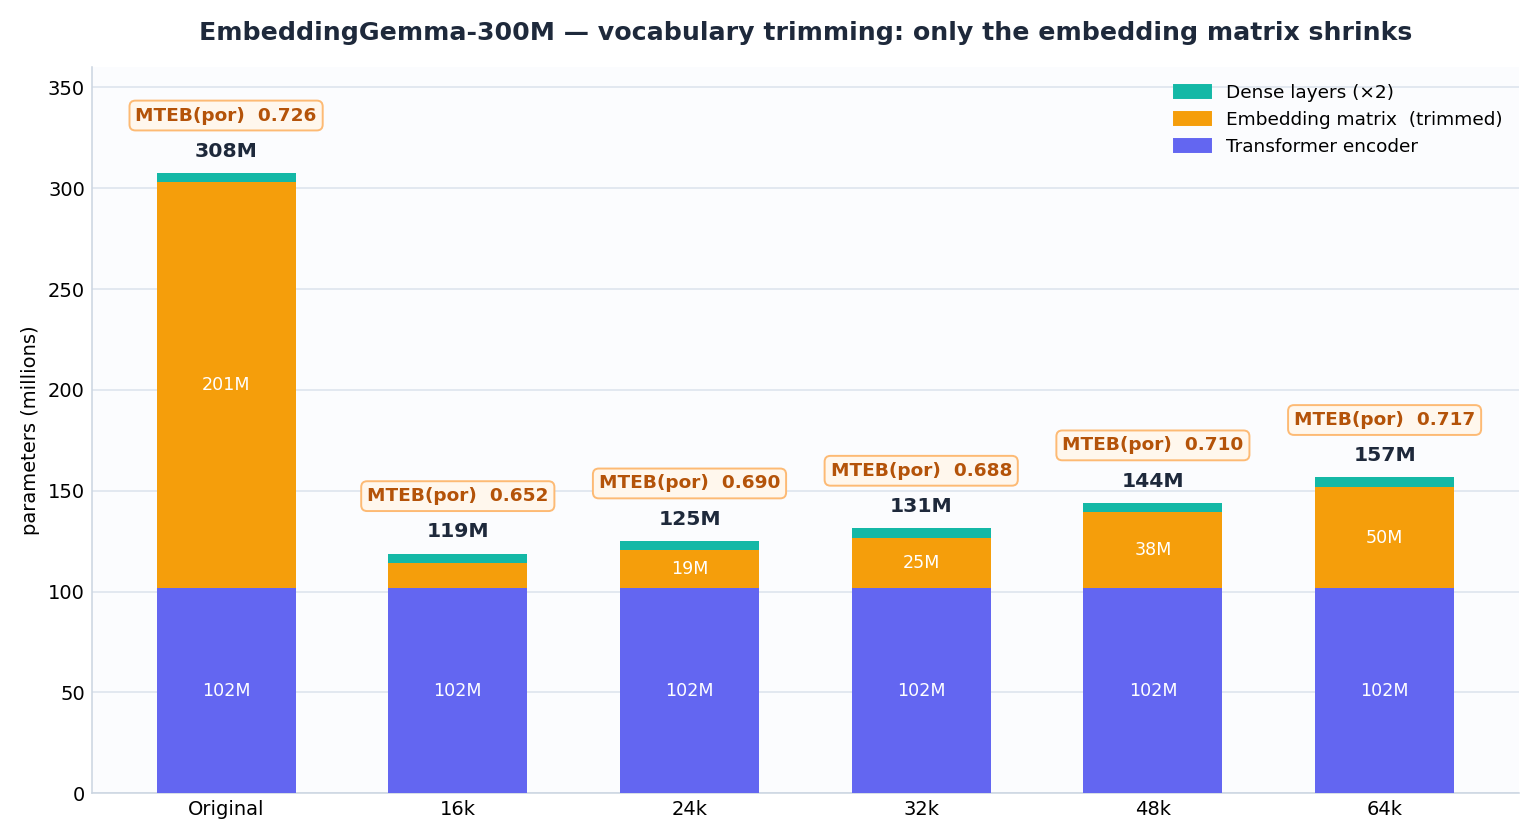
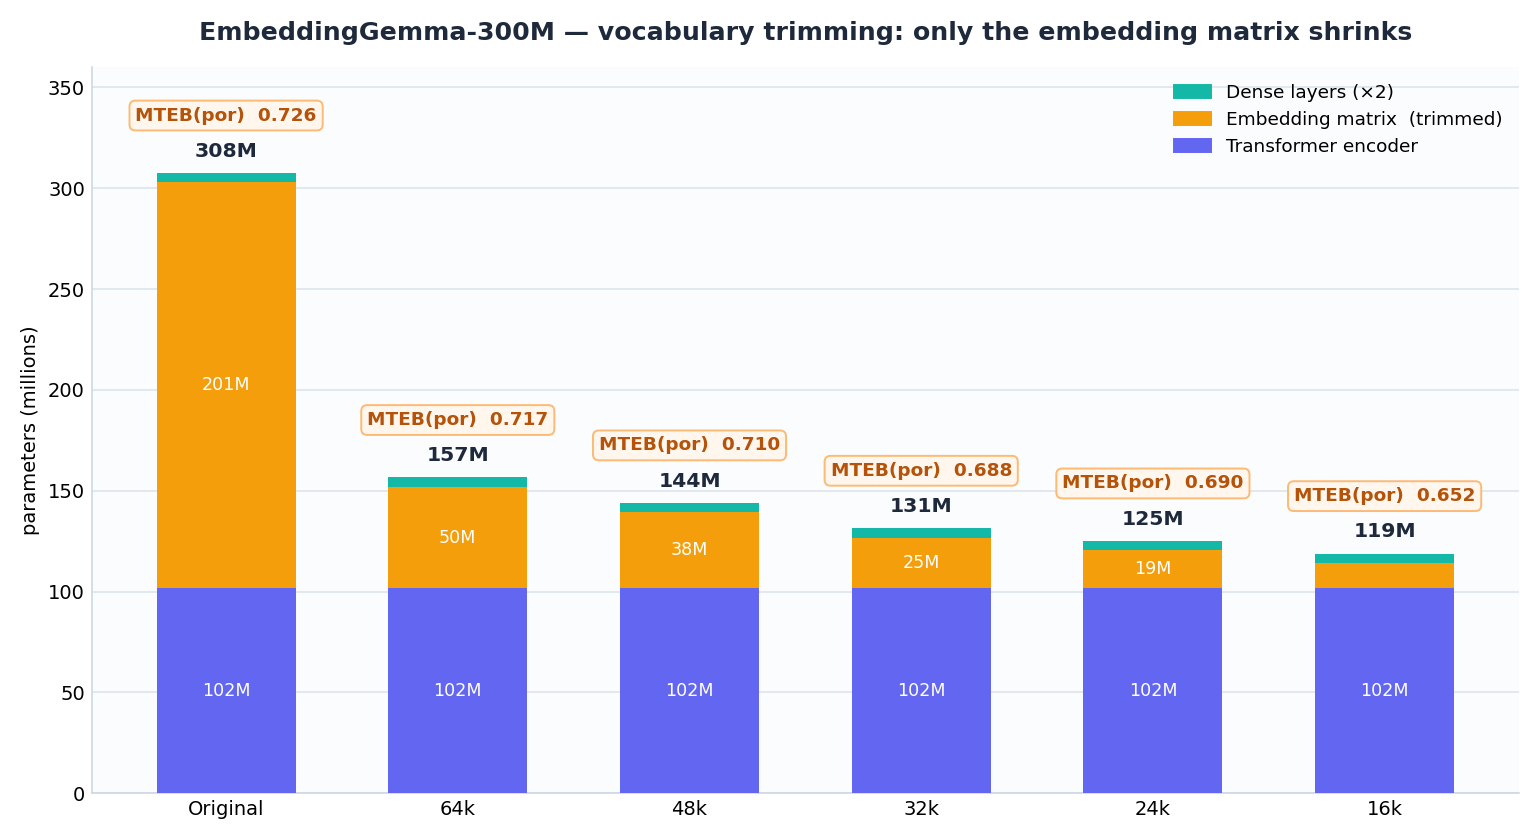
Reorder composition chart largest->smallest

diff --git a/results/plot_composition.py b/results/plot_composition.py
@@ -10,14 +10,14 @@ HID = 768
 TRANSFORMER = 101.54   # transformer encoder (M) — identical across all trims
 DENSE = 4.72           # 2x Dense projection heads (M) — identical across all trims
 
-# (label, vocab_size, mteb_por_mean16)
+# (label, vocab_size, mteb_por_mean16) — ordered largest -> smallest to show progressive trimming
 MODELS = [
     ("Original", 262144, 0.7257),
-    ("16k",       16384, 0.6520),
-    ("24k",       24576, 0.6895),
-    ("32k",       32768, 0.6881),
-    ("48k",       49152, 0.7098),
     ("64k",       65536, 0.7172),
+    ("48k",       49152, 0.7098),
+    ("32k",       32768, 0.6881),
+    ("24k",       24576, 0.6895),
+    ("16k",       16384, 0.6520),
 ]
 
 # professional palette